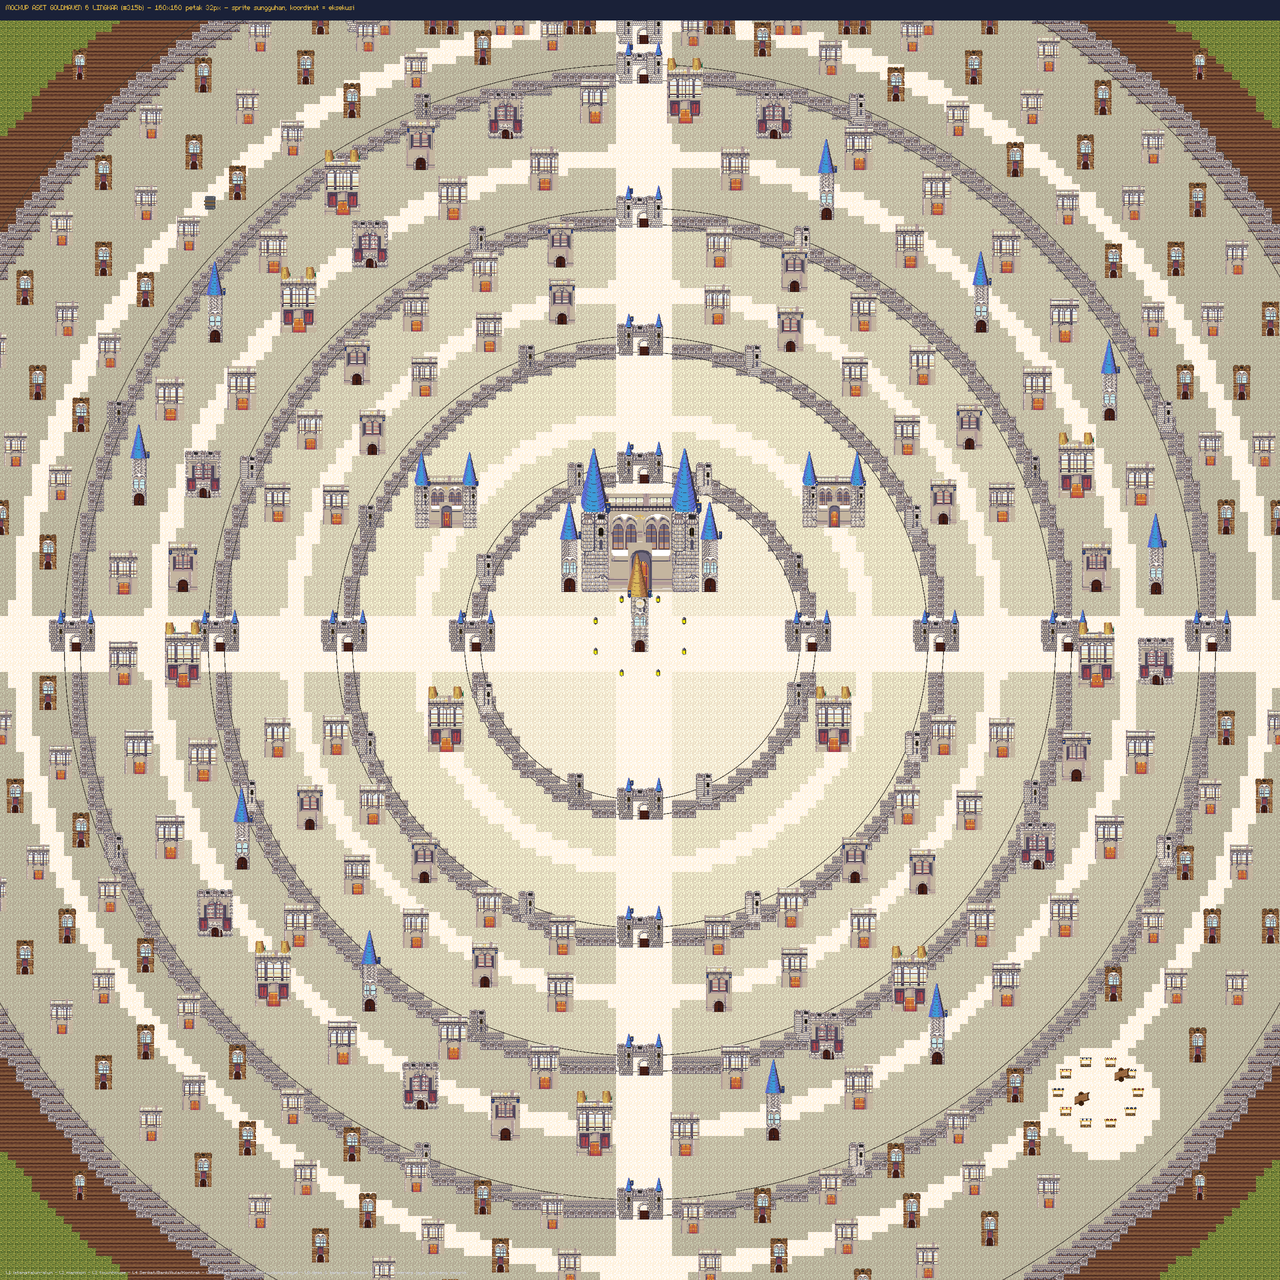
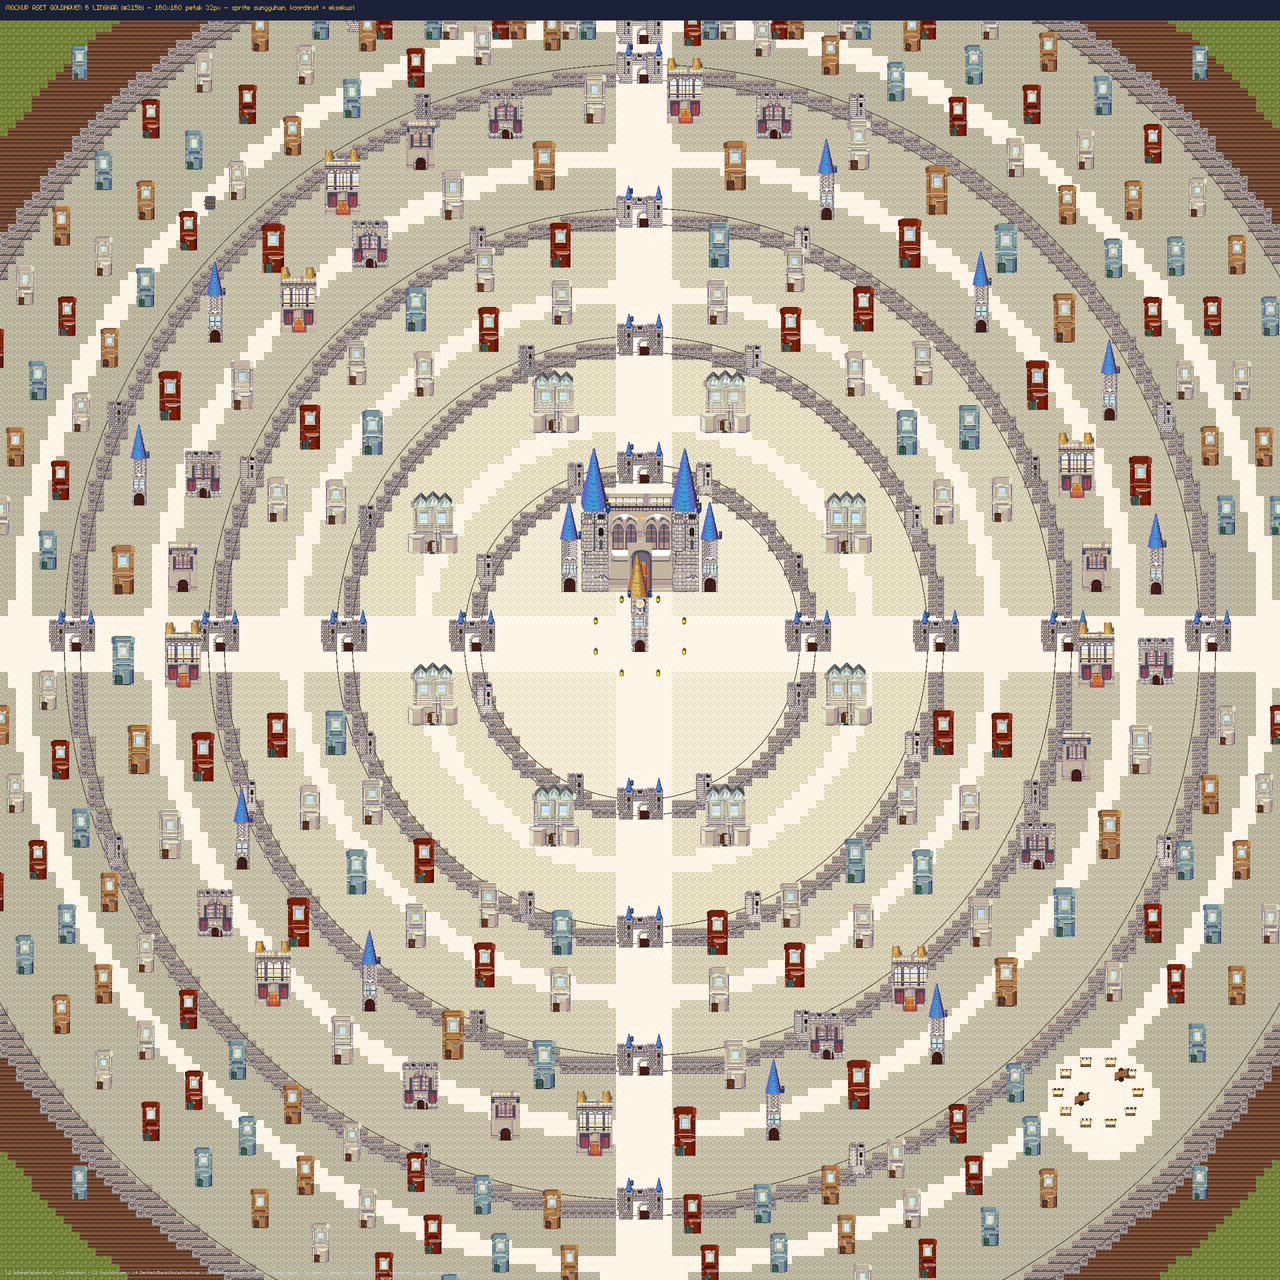
feat(#317): perumahan Goldhaven ganti - townhouse & mansion Victorian
Arahan Direktur: rumah lebih bagus & rapi, sprite naik kelas.

- Potongan baru dari [LPC] Victorian Buildings (bluecarrot16, Sharm,
  Casper Nilsson, cyanowl, Redshrike - CC-BY-SA): panel wall 4 warna,
  bay window tower, cornice mansard, jendela palladian, dormer, portico,
  pintu (kalibrasi mata: band krem bolong -> kolom 0; dormer & pediment
  x472/344 menyatu mansard gelap -> varian bersih / dibuang).
- gen_goldhaven.py: townhouse(warna) - panel 2 tingkat + cornice +
  palladian + bay window + portico-pintu; fasad_hunian_a/b/c/d
  (krem/biru/maroon/tan) + fasad_mansion (3 dormer, palladian ganda,
  2 bay tower, pintu arch berportico) untuk lingkar bangsawan.
- Mockup lingkar diperbarui: L2 mansion x8, L3/L4/L5 campuran 4 warna
  townhouse mengikuti lengkung cincin; detail crop disertakan.

Eksekusi scene menunggu coretan Direktur.

diff --git a/_tools/gen_goldhaven.py b/_tools/gen_goldhaven.py
@@ -202,32 +202,63 @@ def aula(P):
 	return im
 
 
-def hunian_a(P):
-	"""Townhouse plester mewah: balustrade + jendela besar + pintu kofer."""
-	bw, bh = 128, 196
-	im = Image.new("RGBA", (bw, bh), (0, 0, 0, 0))
-	im.alpha_composite(ubin(P["wall_plester"], bw, bh), (0, 0))
-	im.alpha_composite(baris(P["balustrade"], bw), (0, 0))
-	im.alpha_composite(baris(P["cornice"], bw), (0, 30))
-	jb = P["jendela_besar"].resize((58, 78), Image.NEAREST)
-	im.alpha_composite(jb, (8, 42))
-	im.alpha_composite(jb, (bw - jb.width - 8, 42))
-	# pintu di TENGAH — versi offset menabrak jendela kanan (mata v3)
-	tempel_kaki(im, P["pintu_kofer"].resize((60, 88), Image.NEAREST), bw // 2, bh)
+def townhouse(P, warna, pintu_key="vw_pintu_cokelat"):
+	"""Townhouse Victorian (#317): panel wall 2 tingkat + cornice mansard +
+	jendela palladian atas + bay window & portico-pintu bawah. Rapi, flat-top."""
+	W_ = P["vt_wall_%s" % warna]
+	bw = 96
+	tinggi = 2 * W_.height
+	cor = P["vt_cornice_%s" % warna].resize((bw + 8, 33), Image.NEAREST)
+	im = Image.new("RGBA", (bw + 8, tinggi + 28), (0, 0, 0, 0))
+	x0 = 4
+	im.alpha_composite(ubin(W_, bw, tinggi), (x0, 28))
+	im.alpha_composite(cor, (0, 0))
+	pl = P["vm_palladian"].resize((60, 66), Image.NEAREST)
+	im.alpha_composite(pl, (x0 + (bw - pl.width) // 2, 34))
+	bay = P["vt_bay_%s" % warna]
+	im.alpha_composite(bay, (x0 + bw - bay.width - 2, im.height - bay.height))
+	po = P["vw_portico"].resize((50, 46), Image.NEAREST)
+	pt = P[pintu_key].resize((30, 44), Image.NEAREST)
+	im.alpha_composite(po, (x0 + 2, im.height - po.height))
+	im.alpha_composite(pt, (x0 + 2 + (po.width - pt.width) // 2, im.height - pt.height))
 	return im
+
+
+def mansion(P):
+	"""Mansion bangsawan L2: badan krem lebar + pediment ornate + dormer +
+	2 bay tower + palladian ganda + pintu arch berportico."""
+	W_ = P["vt_wall_krem"]
+	bw = 160
+	tinggi = 2 * W_.height
+	im = Image.new("RGBA", (bw + 40, tinggi + 62), (0, 0, 0, 0))
+	x0 = 20
+	im.alpha_composite(ubin(W_, bw, tinggi), (x0, 62))
+	cor = P["vt_cornice_krem"].resize((bw + 16, 34), Image.NEAREST)
+	im.alpha_composite(cor, (x0 - 8, 34))
+	# pediment sheet menyatu dgn mansard gelap tetangga (mata) — tiga dormer saja
+	dr = P["vm_dormer"]
+	im.alpha_composite(dr, (x0 + 4, 8))
+	im.alpha_composite(dr, ((im.width - dr.width) // 2, 2))
+	im.alpha_composite(dr, (x0 + bw - dr.width - 4, 8))
+	pl = P["vm_palladian"].resize((64, 70), Image.NEAREST)
+	im.alpha_composite(pl, (x0 + 12, 70))
+	im.alpha_composite(pl, (x0 + bw - pl.width - 12, 70))
+	bay = P["vt_bay_krem"]
+	im.alpha_composite(bay, (0, im.height - bay.height))
+	im.alpha_composite(bay, (im.width - bay.width, im.height - bay.height))
+	po = P["vw_portico"].resize((64, 58), Image.NEAREST)
+	pa = P["vw_pintu_arch"].resize((44, 54), Image.NEAREST)
+	im.alpha_composite(po, ((im.width - po.width) // 2, im.height - po.height))
+	tempel_kaki(im, pa, im.width // 2, im.height)
+	return im
+
+
+def hunian_a(P):
+	return townhouse(P, "krem")
 
 
 def hunian_b(P):
-	"""Townhouse batu cokelat hangat: battlement + lancet biru + pintu kayu."""
-	bw, bh = 96, 180
-	im = Image.new("RGBA", (bw, bh + 14), (0, 0, 0, 0))
-	im.alpha_composite(ubin(P["brn_wall"], bw, bh), (0, 14))
-	im.alpha_composite(baris(P["brn_battlement"], bw), (0, 0))
-	gb = P["gotik_biru"].resize((70, 66), Image.NEAREST)
-	im.alpha_composite(gb, ((bw - gb.width) // 2, 34))
-	tempel_kaki(im, P["pintu_ganda_kayu"].resize((52, 52), Image.NEAREST), bw // 2, bh + 14)
-	im.alpha_composite(P["jendela_tirai"].resize((36, 56), Image.NEAREST), (bw // 2 - 18, 104))
-	return im
+	return townhouse(P, "biru", "vw_pintu_hijau")
 
 
 def gudang(P):
@@ -342,6 +373,9 @@ def main():
 		"fasad_aula": aula(P),
 		"fasad_hunian_a": hunian_a(P),
 		"fasad_hunian_b": hunian_b(P),
+		"fasad_hunian_c": townhouse(P, "maroon", "vw_pintu_hijau"),
+		"fasad_hunian_d": townhouse(P, "tan"),
+		"fasad_mansion": mansion(P),
 		"fasad_gudang_gh": gudang(P),
 		"menara_timbangan": menara_timbangan(P),
 		"gerbang_batu": gerbang_batu(P),
@@ -363,11 +397,16 @@ def main():
   Xenodora, Lanea Zimmerman (LPC Style Well); theidiotmachine (Another LPC
   style castle, CC-BY-SA 3.0); Daniel Armstrong/HughSpectrum (LPC Base
   Assets, CC-BY 3.0). Sprite turunan ini ikut CC-BY-SA 3.0.
+- fasad_hunian_a/b/c/d + fasad_mansion (#317): dirakit dari
+  "[LPC] Victorian Buildings" oleh bluecarrot16, Lanea Zimmerman (Sharm),
+  Casper Nilsson, Lyndsay Takacs (cyanowl), Redshrike — CC-BY-SA 3.0 /
+  CC-BY-SA 4.0 / GPL 3.0. https://opengameart.org/content/lpc-victorian-buildings
+  (rincian CREDITS-victorian.txt). Sprite turunan ikut CC-BY-SA 3.0.
 - GAMBAR SENDIRI (milik Aetherion): panji kota, lambang timbangan,
   kios_dagang(_b), segel_pintu.
 Lisensi: CC-BY-SA 3.0
 """)
-	print("-> %s (14 berkas)" % OUT)
+	print("-> %s (17 berkas)" % OUT)
 
 
 if __name__ == "__main__":

diff --git a/_tools/mockup_goldhaven_lingkar_aset.py b/_tools/mockup_goldhaven_lingkar_aset.py
@@ -37,7 +37,8 @@ def f(sz):
 def muat_sprite():
 	S = {}
 	for n in ["fasad_serikat", "fasad_bank", "fasad_kontrak", "fasad_balai_gh",
-			"fasad_aula", "fasad_hunian_a", "fasad_hunian_b", "fasad_gudang_gh",
+			"fasad_aula", "fasad_hunian_a", "fasad_hunian_b", "fasad_hunian_c",
+			"fasad_hunian_d", "fasad_mansion", "fasad_gudang_gh",
 			"menara_timbangan", "gerbang_batu", "kios_dagang", "kios_dagang_b",
 			"segel_pintu"]:
 		S[n] = Image.open(os.path.join(G, "goldhaven", n + ".png")).convert("RGBA")
@@ -195,15 +196,14 @@ def main():
 		a = (a8 + 0.5) * math.tau / 8
 		taruh(S["lentera"], (C + math.cos(a) * 6) * T, (C + math.sin(a) * 5) * T)
 
-	# ── LINGKAR 2: mansion bangsawan atas (bank & serikat sebagai mansion) ──
-	for i, key in enumerate(["fasad_bank", "fasad_serikat", "fasad_bank",
-			"fasad_serikat", "fasad_bank", "fasad_serikat"]):
-		a = (i + 0.5) * math.tau / 6
+	# ── LINGKAR 2: MANSION Victorian bangsawan atas (#317) ──
+	for i in range(8):
+		a = (i + 0.5) * math.tau / 8
 		rr = (R1 + R2) / 2
 		tx, ty = C + math.cos(a) * rr, C + math.sin(a) * rr
 		if abs(tx - C) <= 6 or abs(ty - C) <= 6:
 			continue
-		taruh(S[key], tx * T, ty * T, 0.9)
+		taruh(S["fasad_mansion"], tx * T, ty * T)
 
 	# ── LINGKAR 3: townhouse RAPAT dua baris menghadap jalan cincin ──
 	for sisi, rr in [(-1, (R2 + R3) / 2 - 3.4), (1, (R2 + R3) / 2 + 3.6)]:
@@ -213,14 +213,14 @@ def main():
 			tx, ty = C + math.cos(a) * rr, C + math.sin(a) * rr
 			if abs(tx - C) <= 5 or abs(ty - C) <= 5:
 				continue
-			taruh(S["fasad_hunian_a" if i % 3 else "fasad_balai_gh"],
-				tx * T, ty * T, 0.82)
+			taruh(S[["fasad_hunian_a", "fasad_hunian_c", "fasad_hunian_a",
+				"fasad_hunian_b"][i % 4]], tx * T, ty * T, 0.82)
 
 	# ── LINGKAR 4: gedung publik warga elit ──
 	publik = ["fasad_bank", "fasad_aula", "fasad_kontrak", "fasad_balai_gh",
-		"fasad_hunian_a", "fasad_hunian_a", "fasad_aula", "fasad_hunian_a",
-		"fasad_kontrak", "fasad_hunian_a", "fasad_hunian_a", "fasad_hunian_a",
-		"fasad_bank", "fasad_hunian_a"]
+		"fasad_hunian_a", "fasad_hunian_c", "fasad_aula", "fasad_hunian_d",
+		"fasad_kontrak", "fasad_hunian_a", "fasad_hunian_b", "fasad_hunian_c",
+		"fasad_bank", "fasad_hunian_d"]
 	for sisi, rr in [(-1, (R3 + R4) / 2 - 3.6), (1, (R3 + R4) / 2 + 3.8)]:
 		nb = 30 if sisi < 0 else 36
 		for i in range(nb):
@@ -243,8 +243,8 @@ def main():
 				continue
 			if math.hypot(tx - mx, ty - my) < 8.5:
 				continue   # plaza pasar bersih dari hunian
-			taruh(S["fasad_hunian_b" if (i + int(baris_r)) % 2 else "fasad_hunian_a"],
-				tx * T, ty * T, 0.72)
+			taruh(S[["fasad_hunian_d", "fasad_hunian_b", "fasad_hunian_c",
+				"fasad_hunian_a"][(i + int(baris_r)) % 4]], tx * T, ty * T, 0.72)
 	# PASAR AGUNG tenggara — plaza terang + kios radial + gerobak
 	for ty in range(N):
 		for tx in range(N):

diff --git a/_tools/gen_goldhaven_potong.py b/_tools/gen_goldhaven_potong.py
@@ -47,14 +47,42 @@ PIECES = {
 	"kerucut_hijau":    ("e", 416, 264, 512, 512),
 	"kerucut_biru_s":   ("e", 0, 248, 64, 310),
 	"kerucut_emas_s":   ("e", 316, 250, 376, 310),  # 352-416 kena kerucut hijau (mata)
+	# ── victorian (#317): band warna — biru y0, krem y224, maroon y448, tan y672 ──
+	"vt_wall_biru":     ("t", 96, 0, 192, 96),
+	"vt_wall_krem":     ("t", 0, 224, 96, 320),   # kolom 96-192 band krem BOLONG (mata)
+	"vt_wall_maroon":   ("t", 96, 448, 192, 544),
+	"vt_wall_tan":      ("t", 96, 672, 192, 768),
+	"vt_bay_biru":      ("t", 800, 0, 900, 96),
+	"vt_bay_krem":      ("t", 800, 224, 900, 320),
+	"vt_bay_maroon":    ("t", 800, 448, 900, 544),
+	"vt_bay_tan":       ("t", 800, 672, 900, 768),
+	"vt_cornice_biru":  ("t", 604, 112, 704, 152),
+	"vt_cornice_krem":  ("t", 604, 336, 704, 376),
+	"vt_cornice_maroon": ("t", 604, 560, 704, 600),
+	"vt_cornice_tan":   ("t", 604, 784, 704, 824),
+	# mansion: band sage y0, merah y256, kuning y512, hijau y768
+	"vm_palladian":     ("m", 416, 152, 512, 256),   # jendela agung grid putih
+	"vm_porch":         ("m", 900, 152, 1024, 256),  # kolom kanan saja — crop lebar kena dinding bolong (mata)
+	"vm_pediment":      ("m", 344, 8, 440, 60),      # y ketat — 0-96 bawa mansard gelap tetangga (mata)
+	"vm_dormer":        ("m", 352, 96, 416, 160),  # varian bersih — x472 menempel mansard gelap (mata)
+	"vm_atap_sage":     ("m", 256, 0, 352, 96),      # mansard lengkung
+	# windows-doors
+	"vw_portico":       ("w", 64, 64, 140, 136),
+	"vw_pintu_cokelat": ("w", 0, 544, 48, 616),
+	"vw_pintu_hijau":   ("w", 712, 544, 762, 616),
+	"vw_pintu_arch":    ("w", 836, 600, 900, 688),
 }
 
 
 def muat():
+	V = os.path.join(RAW, "victorian", "lpc-victorian-buildings")
 	return {
 		"c": Image.open(os.path.join(RAW, "castle8_0.png")).convert("RGBA"),
 		"b": Image.open(os.path.join(RAW, "castle8brn.png")).convert("RGBA"),
 		"e": Image.open(os.path.join(RAW, "castle-extras_0.png")).convert("RGBA"),
+		"t": Image.open(os.path.join(V, "victorian-tenement.png")).convert("RGBA"),
+		"m": Image.open(os.path.join(V, "victorian-mansion.png")).convert("RGBA"),
+		"w": Image.open(os.path.join(V, "victorian-windows-doors.png")).convert("RGBA"),
 	}
 
 
@@ -94,8 +122,12 @@ def potong(sheets=None):
 	out = {}
 	for n, (s, x0, y0, x1, y1) in PIECES.items():
 		im = sheets[s].crop((x0, y0, x1, y1))
-		if n.startswith("kerucut"):
-			im = _komponen_terbesar(im)
+		if n.startswith(("kerucut", "vm_pediment", "vm_dormer")):
+			im = _komponen_terbesar(im)   # serpihan sheet tetangga ikut (mata #317)
+		if n.startswith(("vt_", "vm_", "vw_")):
+			bb = im.getbbox()
+			if bb:
+				im = im.crop(bb)
 		out[n] = im
 	return out
 

diff --git a/PLAN_LEDGER.md b/PLAN_LEDGER.md
@@ -663,4 +663,6 @@ akibat overhunt, kota berkembang karena sering diselamatkan.
 
 | 316 | 2026-07-27 | **[KOTA-002] #316 MOCKUP ASET 6 LINGKAR — blockout di-ACC ("lingkar blockout sudah oke, bikin lagi mockupnya... peta boleh besar banget")** | Menunggu coretan Direktur | mockup_goldhaven_lingkar_aset.py: peta dinaikkan 120→160 petak (5120px, terbesar); render sprite sungguhan 1:1, koordinat = eksekusi. Isi: istana komposit + Menara Timbangan pusat, 5 cincin tembok ber-outline + battlement + menara jaga 8 arah + gerbang segaris, jalan cincin per lingkar + bangunan berbaris menghadapnya (L3 2×~28, L4 2×~33, L5 3 baris ~90 hunian), Pasar Agung plaza tenggara, desa cincin luar + kamp karavan. Palet tanah satu keluarga krem bergradasi (NOL dirt dalam tembok; LPC Terrains). Mata 3 ronde: tembok dominan → crop tengah + outline; palet tabrakan → gradasi krem; sepi → ring road + baris rapat. | Coretan Direktur | Owner/Direktur |
 
+| 317 | 2026-07-27 | **[KOTA-002] #317 PERUMAHAN GOLDHAVEN GANTI — visual naik kelas (arahan Direktur)** | "bikin rumah rumahnya lebih bagus, rapi, ikutan melingkar juga gapapa. spritenya ganti menjadi yang lebih bagus... intinya asset goldhaven ganti" | Rumah/hunian dirakit ulang dari [LPC] Victorian Buildings (bluecarrot16 dkk, CC-BY-SA — mansion/tenement/windows-doors, >10.000 tile, sudah diunduh #314): townhouse 2 lantai ber-bay-window/dormer/porch beberapa warna + mansion bangsawan L2. Istana/tembok/menara tetap Castle Mega-Pack. Penempatan barisan mengikuti lengkung cincin. Mockup diperbarui → coretan Direktur sebelum eksekusi. | ACC Direktur | Owner/Direktur |
+
 > Baris berikutnya ditambahkan SEBELUM implementasi keputusan baru. Jangan hapus baris; koreksi = baris baru.
